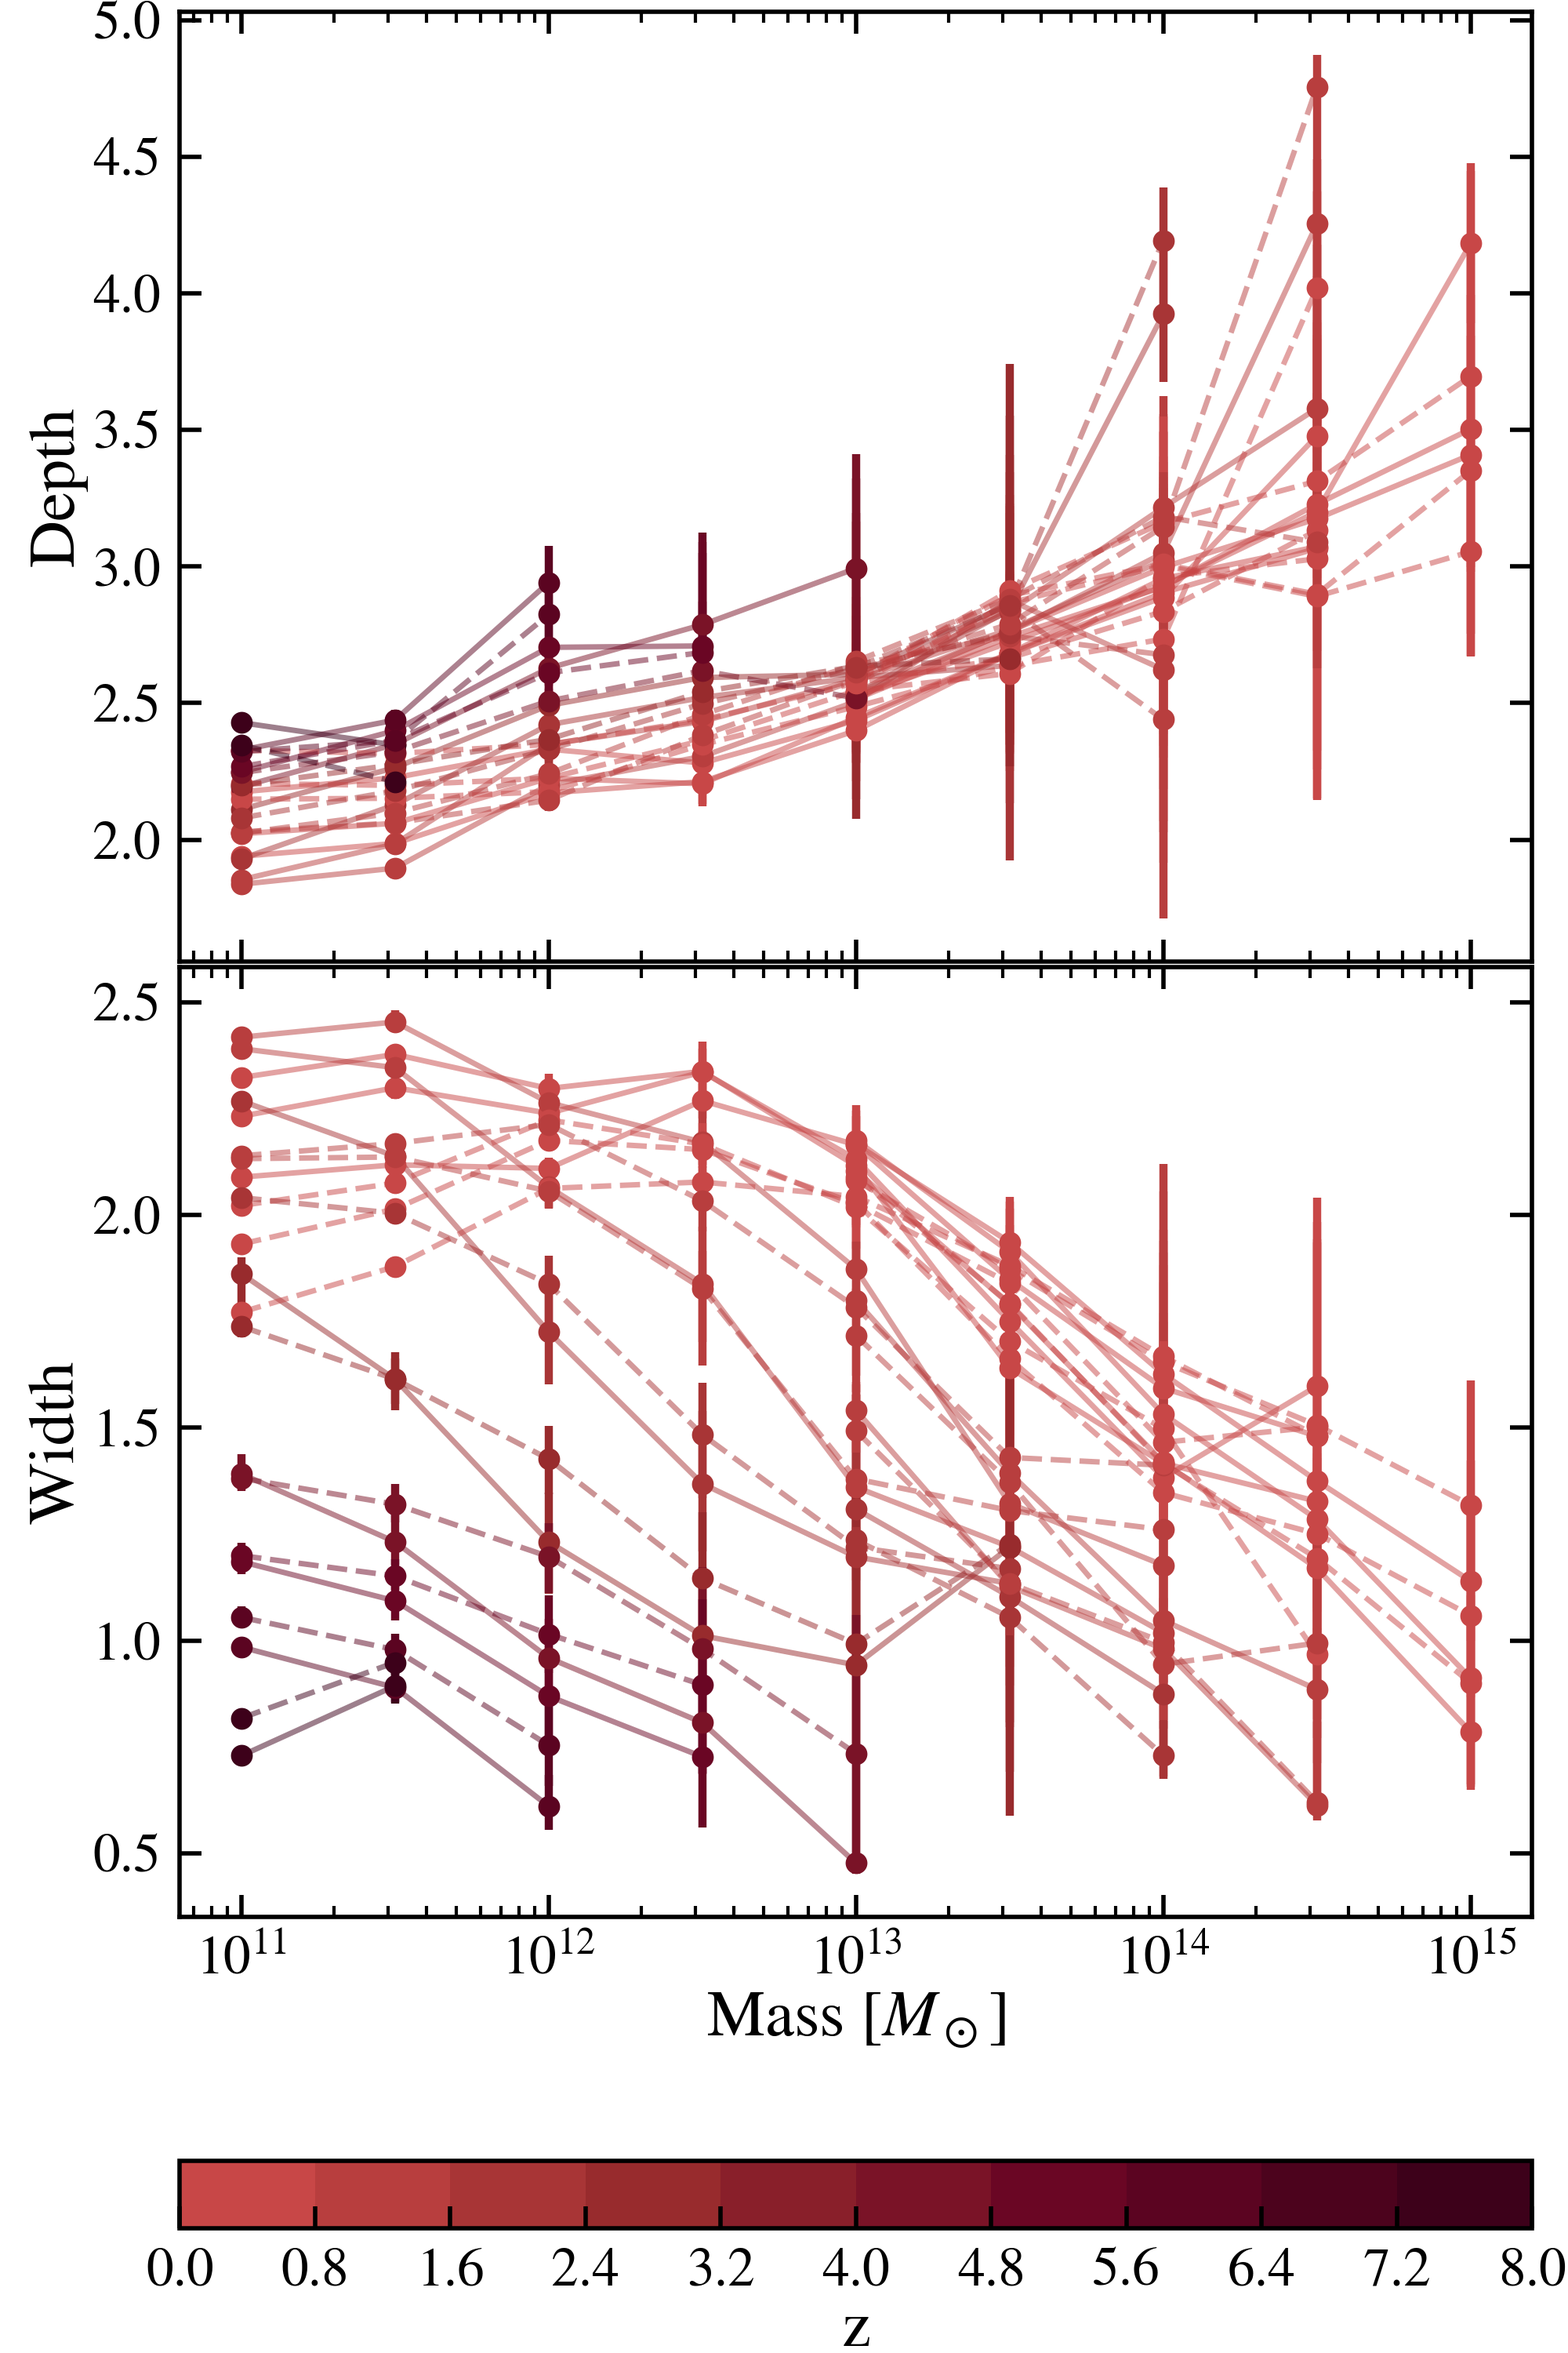
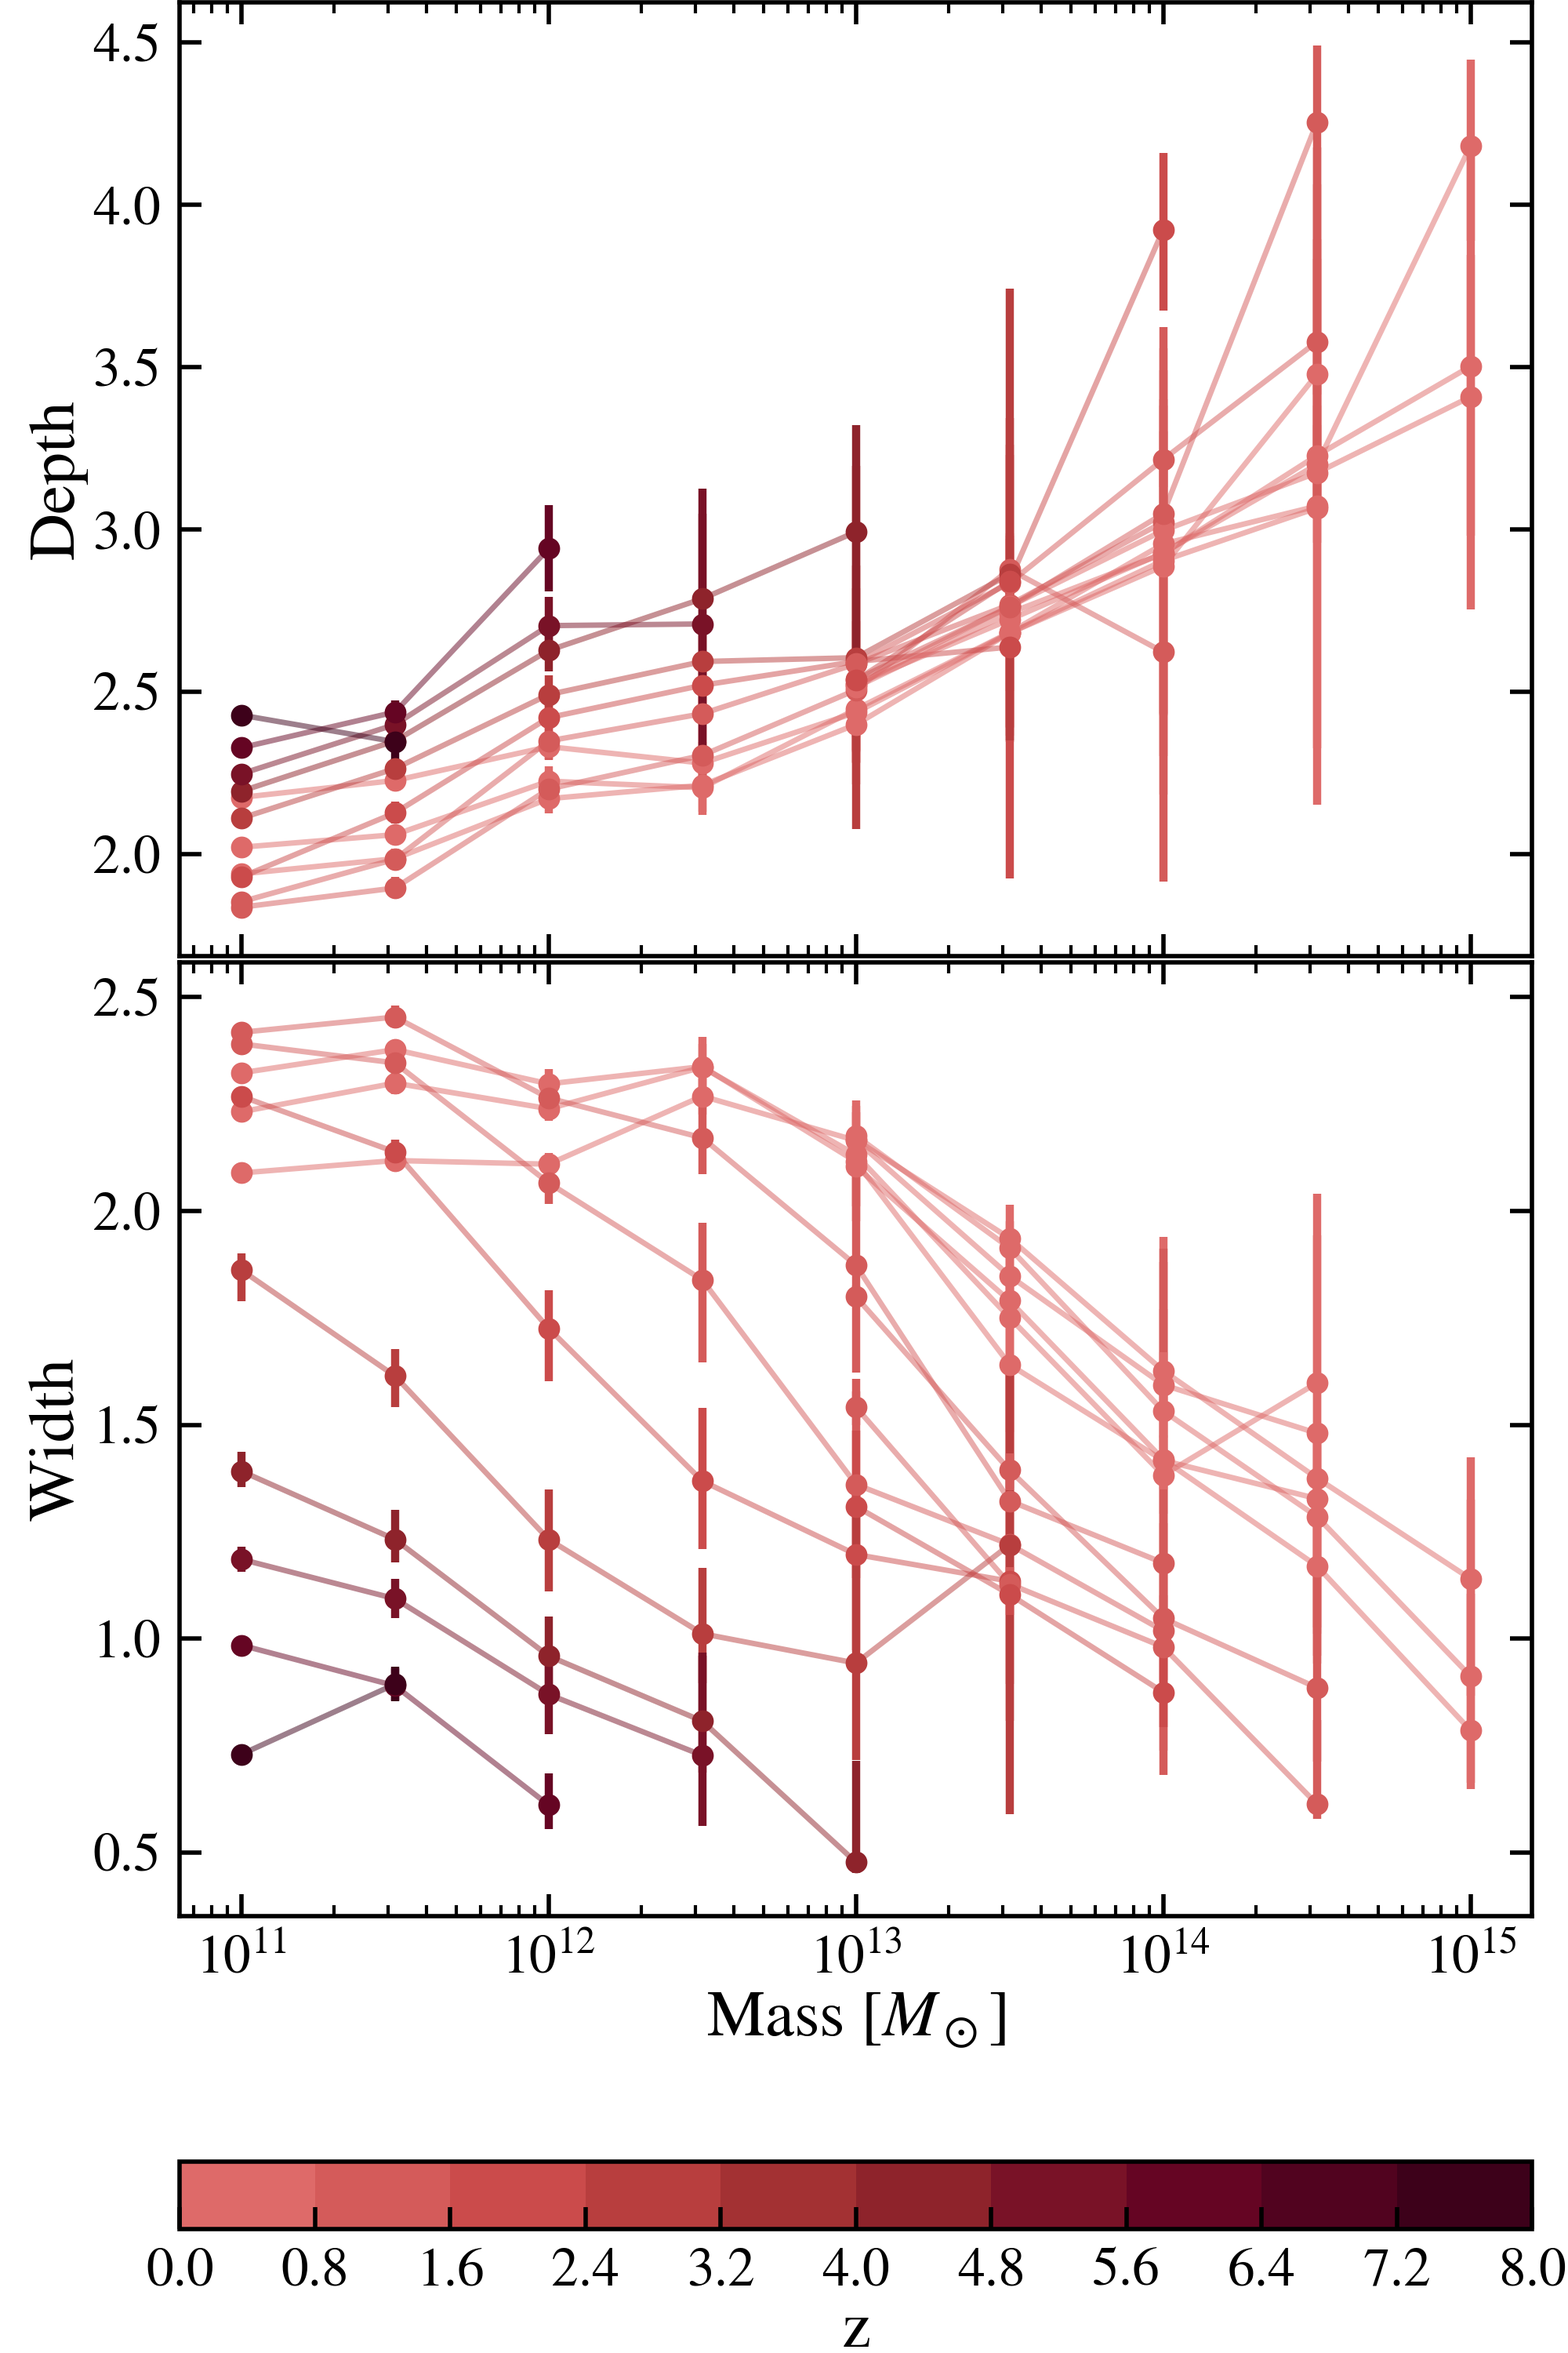
new

diff --git a/code/paper_plot/fig5.py b/code/paper_plot/fig5.py
@@ -1,5 +1,5 @@
-""""This script plots depth (top panel) and width (bottom panel) as a function of redshift for a few 
-    characteristic mass cuts.
+""""This script plots depth (top panel) and width (bottom panel) as a function of redshift for 
+a few characteristic mass cuts.
     Hydro simulation only."""
 
 import os
@@ -11,7 +11,7 @@ from matplotlib.colors import BoundaryNorm
 plt.style.use('code/style.mplstyle')
 
 print('')
-print(f'>>> Plot depth and width vs z <<<')
+print(f'>>> Plot depth and width vs z (M*) <<<')
 print('')
 
 root_dir = 'result/bootstrap_stats_phys/'
@@ -38,32 +38,33 @@ MTNG_z, MTNG_bins, MTNG_data = load_data(MTNG_dir, MTNG_snaps)
 
 # Concatenate all data
 z = np.concatenate((TNG300_z, MTNG_z))
-bins = np.concatenate((TNG300_bins, MTNG_bins))
-bins = np.log10(bins)
 data = np.concatenate((TNG300_data, MTNG_data), axis=0)
 
+bins = np.concatenate((TNG300_bins, MTNG_bins))
+bins = np.log10(bins)
+uniq_bins = np.unique(bins)
+    
 # ============================================================================================
 # Set up the plot
 # ============================================================================================
 
 fig, axs = plt.subplots(2, 1, figsize = (4, 6), dpi=500, sharex=True)
     
-uniq_bins = np.unique(bins)
-num_bins = len(uniq_bins)
-min_bin, max_bin = np.min(bins), np.max(bins)
-
 from matplotlib.colors import LinearSegmentedColormap
 red_list = [# '#EE9D9F', '#DE6A69', 
-            '#C84747', '#982B2D','#6A0624', '#3D011A'] 
-blue_list = ['#89CAEA','#4596CD','#0B75B3','#015696','#012A61','#053061', ]# light to dark
+            '#C84747', '#982B2D','#6A0624', '#3D011A'] # light to dark
+blue_list = ['#89CAEA','#4596CD','#0B75B3','#015696','#012A61','#053061', ] # light to dark
 cmap = LinearSegmentedColormap.from_list('my_cmap', blue_list)
 # cmap = plt.get_cmap('plasma', num_bins)
+
+min_bin, max_bin = 9, 15
+num_bins = int((max_bin - min_bin)/0.5)
 
 bound = np.logspace(min_bin, max_bin+0.1, num_bins) 
 norm = BoundaryNorm(bound, cmap.N)
 cb = fig.colorbar(cm.ScalarMappable(norm=norm, cmap=cmap),
                   ax=axs, orientation='horizontal', spacing='proportional', ticks=bound)
-cb.set_label('Mass [$M_\\odot$]')
+cb.set_label('Characteristic Mass [$M_\\odot$]')
 cb._set_scale('log')
 
 # ============================================================================================
@@ -72,33 +73,62 @@ cb._set_scale('log')
 
 # Iterate over mass bins
 for b in uniq_bins:
-    # print('mass cut: ', b)
+    print('mass cut: ', b)
     idx = np.where(bins == b)
     
     current_z = z[idx]
-
     current_data = data[idx]
     
     # Plot SORTED data
     sorted_idx = np.argsort(current_z)
     
-    X = current_z[sorted_idx]
+    # Compute the characteristic mass
+    # -------------------------------------------------------------------------------------------
+    # Quote the splashback radius
+    Rsp = current_data[:, 0, 1][sorted_idx] # kpc
+    # Compute the characteristic overdensity
+    delta_rho = delta_c(current_z[sorted_idx]) # Msun / kpc**3
+    # Compute the characteristic mass
+    char = character_mass(Rsp, delta_rho) # Msun
+    # -------------------------------------------------------------------------------------------
     
-    Y =  current_data[:, 1, 1][sorted_idx]
-    Ymin = current_data[:, 1, 1][sorted_idx]-current_data[:, 1, 0][sorted_idx]
-    Ymax = current_data[:, 1, 2][sorted_idx]-current_data[:, 1, 1][sorted_idx]
+    # # Rescale the mass 
+    # log_char = np.log10(char.value)
+    # print(char.value)
     
-    Z = current_data[:, 2, 1][sorted_idx]
-    Zmin = current_data[:, 2, 1][sorted_idx]-current_data[:, 2, 0][sorted_idx]
-    Zmax = current_data[:, 2, 2][sorted_idx]-current_data[:, 2, 1][sorted_idx]
-    
-    # Plot depth
-    for ix, x in enumerate(X):
-        axs[0].plot(x, Y[ix], color=cmap(norm(b)), lw=1, alpha=0.5) 
-        axs[0].errorbar(x, Y[ix], yerr=[[Ymin[ix]],[Ymax[ix]]], fmt='.', color=cmap(norm((10**b)/(1+x))))
+
+    for iz, cu_z in enumerate(current_z[sorted_idx]):
+        # Plot depth
+        axs[0].errorbar(cu_z, current_data[:, 1, 1][sorted_idx][iz],
+            yerr=[
+                [current_data[:, 1, 1][sorted_idx][iz] - current_data[:, 1, 0][sorted_idx][iz]],
+                [current_data[:, 1, 2][sorted_idx][iz] - current_data[:, 1, 1][sorted_idx][iz]],
+                ],
+            fmt='.', color=cmap(norm(char.value[iz])),
+        )
         # Plot width
-        axs[1].plot(x, Z[ix], color=cmap(norm(b)), lw=1, alpha=0.5) 
-        axs[1].errorbar(x, Z[ix], yerr=[[Zmin[ix]],[Zmax[ix]]], fmt='.', color=cmap(norm((10**b)/(1+x))))
+        axs[1].errorbar(cu_z, current_data[:, 2, 1][sorted_idx][iz],
+            yerr=[
+                [current_data[:, 2, 1][sorted_idx][iz] - current_data[:, 2, 0][sorted_idx][iz]],
+                [current_data[:, 2, 2][sorted_idx][iz] - current_data[:, 2, 1][sorted_idx][iz]],
+                ],
+            fmt='.', color=cmap(norm(char.value[iz])),
+        )
+    # axs[0].scatter(current_z[sorted_idx], current_data[:, 1, 1][sorted_idx], color=cmap(norm(10**log_char)), 
+    #             lw=1, alpha=0.5) 
+    # axs[0].errorbar(current_z[sorted_idx], current_data[:, 1, 1][sorted_idx], 
+    #             yerr=[current_data[:, 1, 1][sorted_idx]-current_data[:, 1, 0][sorted_idx], 
+    #                   current_data[:, 1, 2][sorted_idx]-current_data[:, 1, 1][sorted_idx]],
+    #             fmt='.', color=cmap(norm(char.value))
+    #                 )
+
+    # axs[1].plot(current_z[sorted_idx], current_data[:, 2, 1][sorted_idx], color=cmap(norm(10**log_char)), 
+    #             lw=1, alpha=0.5) 
+    # axs[1].errorbar(current_z[sorted_idx], current_data[:, 2, 1][sorted_idx], 
+    #             yerr=[current_data[:, 2, 1][sorted_idx]-current_data[:, 2, 0][sorted_idx], 
+    #                   current_data[:, 2, 2][sorted_idx]-current_data[:, 2, 1][sorted_idx]],
+    #             fmt='.', color=cmap(norm(char.value))
+    #                 )
     
 # Final edit
 axs[0].set_ylabel("Depth")

diff --git a/code/paper_plot/fig3.py b/code/paper_plot/fig3.py
@@ -25,7 +25,8 @@ fig, axs = plt.subplots(2, 1, figsize=(4, 6), dpi=500, sharex=True)
 # Set up the colorbar
 # ============================================================================================
 
-TNG300_snaps = [99, 78, 67, 50, 40, 33, 25, 21, 17, 13, 8]
+TNG300_snaps = [99, 78, 67, 50, 40, 33, 25, 21, 17, 13, 8
+                ]
 TNG300_dir = f'{root_dir}/TNG300/sim_205_1250_Hydro/Nboots_1024/'
 TNG300_z_i, TNG300_z_f = load_z(TNG300_dir, TNG300_snaps)
 
@@ -35,49 +36,21 @@ MTNG_z_i, MTNG_z_f = load_z(MTNG_dir, MTNG_snaps)
 
 z_i, z_f = max(TNG300_z_i, MTNG_z_i), min(TNG300_z_f, MTNG_z_f)
 print(z_i, z_f)
-# # Set the mass range
-# def set_cb(root_dir, simu):
-        
-#         # Load TNG300
-#         TNG300_dir = f'{root_dir}/TNG300/sim_205_1250_{simu}/Nboots_1024/'
-#         TNG300_snap = 99
-#         TNG300_data = np.load(f'{TNG300_dir}/snap_{TNG300_snap}_Rsp_stats.npy', allow_pickle=True).item()
-
-#         TNG300_mass_bins     = TNG300_data['mass_bins']
-
-#         # Load MTNG
-#         MTNG_dir = f'{root_dir}/MTNG/{simu}-Arepo/MTNG-L500-4320-A/Nboots_1024/'
-#         MTNG_snap = 264
-#         MTNG_data = np.load(f'{MTNG_dir}//snap_{MTNG_snap}_Rsp_stats.npy', allow_pickle=True).item()
-
-#         MTNG_mass_bins     = MTNG_data['mass_bins']
-
-#         min_mass = min(min(TNG300_mass_bins), min(MTNG_mass_bins))
-#         max_mass = max(max(TNG300_mass_bins), max(MTNG_mass_bins))
-#         print(min_mass, max_mass)
-#         num_mass_bins = int((max_mass - min_mass) / 0.5)
-#         print(num_mass_bins)
-        
-#         return min_mass, max_mass
-
-# hydro_min_mass, hydro_max_mass = set_cb(root_dir, 'Hydro')
-# DM_min_mass, DM_max_mass = set_cb(root_dir, 'DM')
-
-# min_mass = min(hydro_min_mass, DM_min_mass)
-# max_mass = max(hydro_max_mass, DM_max_mass)
-# num_mass_bins = int((max_mass - min_mass) / 0.5)
 
 # Set up the colorbar
+# -----------------------------------------------------------------------------------------
 from matplotlib.colors import LinearSegmentedColormap
-red_list = [# '#EE9D9F', '#DE6A69', 
-            '#C84747', '#982B2D','#6A0624', '#3D011A'] # light to dark
+red_list = [# '#EE9D9F', 
+            '#DE6A69', '#C84747', '#982B2D','#6A0624', '#3D011A'] # light to dark
 blue_list = ['#89CAEA','#4596CD', '#0B75B3', '#015696', '#012A61']
 cmap = LinearSegmentedColormap.from_list('my_cmap', red_list)
-# cmap = plt.get_cmap('viridis', len(TNG300_snaps))
+
+# cmap = plt.get_cmap('autumn', len(TNG300_snaps))
 bound = np.linspace(z_f, z_i, len(TNG300_snaps))
 norm = BoundaryNorm(bound, cmap.N)
 cb = fig.colorbar(cm.ScalarMappable(norm=norm, cmap=cmap),
                   ax=axs, orientation='horizontal', spacing='proportional', ticks=bound)
+# -----------------------------------------------------------------------------------------
 
 # Reduce colormap ticks sf
 from matplotlib.ticker import FuncFormatter
@@ -123,26 +96,9 @@ def plot_width(z, mass_bins, final_results, simu):
                               final_results[:, 2, 2]-final_results[:, 2, 1]],
                         color=cmap(norm(z)), fmt='.')
                 
-# def plot_width(mass_bins, final_results, simu):
-#         if simu == 'DM':
-#                 ls = '--'
-#         elif simu == 'Hydro':
-#                 ls = '-'
-                
-#         for imass, mass in enumerate(mass_bins):
-                
-#                 axs[1].plot(mass, final_results[imass, 2, 1], color=cmap(norm(mass)))
-#                 if imass < len(mass_bins)-1:
-#                         axs[1].plot([mass_bins[imass], mass_bins[imass+1]], 
-#                                     [final_results[imass, 2, 1], final_results[imass+1, 2, 1]], 
-#                                      color=cmap(norm(mass_bins[imass])), lw=1, alpha=0.5, linestyle=ls)  
-#                 axs[1].errorbar(mass, final_results[imass, 2, 1],
-#                                 yerr=[[final_results[imass, 2, 1]-final_results[imass, 2, 0]], 
-#                                       [final_results[imass, 2, 2]-final_results[imass, 2, 1]]],
-#                                 color=cmap(norm(mass)), fmt='.')
-
-
-simus = ['Hydro', 'DM']
+simus = ['Hydro', 
+         # 'DM'
+         ]
 for simu in simus:
         
         # Plot TNG300

diff --git a/code/paper_plot/func.py b/code/paper_plot/func.py
@@ -118,3 +118,29 @@ def plot_data(dir, snaps, acc, axs, cmap, norm, feat='depth'):
         tot_y = np.concatenate((tot_y, y))
     
     return tot_x, tot_y
+
+def delta_c(z):
+    import astropy.units as u
+    from astropy.constants import M_sun, G
+    from astropy.cosmology import FlatLambdaCDM
+    
+    # Define own cosmology
+    h = 0.6774
+    Om0 = 0.3089
+    Ob0 = 0.0486
+    cosmo = FlatLambdaCDM(H0 = h * 100 * u.km / u.s / u.Mpc, 
+                            Om0=Om0, Ob0=Ob0, Tcmb0=2.725)
+    
+    # Compute the critical density
+    H = cosmo.H(z) # km / (Mpc s)
+    H = H.to(u.m / u.s / u.m)
+    rho_c = 3 * H**2 / ( 8 * np.pi * G ) 
+    rho_c = rho_c.to(M_sun / u.kpc**3) # Msun / kpc**3
+    
+    # Compute the characteristic overdensity
+    delta_rho = rho_c * 1.686
+    
+    return delta_rho
+
+def character_mass(char_r, char_rho):
+    return 4/3 * np.pi * char_r**3 * char_rho

diff --git a/code/paper_plot/fig4.py b/code/paper_plot/fig4.py
@@ -58,7 +58,7 @@ blue_list = ['#89CAEA','#4596CD','#0B75B3','#015696','#012A61','#053061', ] # li
 cmap = LinearSegmentedColormap.from_list('my_cmap', blue_list)
 # cmap = plt.get_cmap('plasma', num_bins)
 
-bound = np.logspace(min_bin, max_bin+0.1, num_bins) 
+bound = np.logspace(9, max_bin+0.1, num_bins) 
 norm = BoundaryNorm(bound, cmap.N)
 cb = fig.colorbar(cm.ScalarMappable(norm=norm, cmap=cmap),
                   ax=axs, orientation='horizontal', spacing='proportional', ticks=bound)
